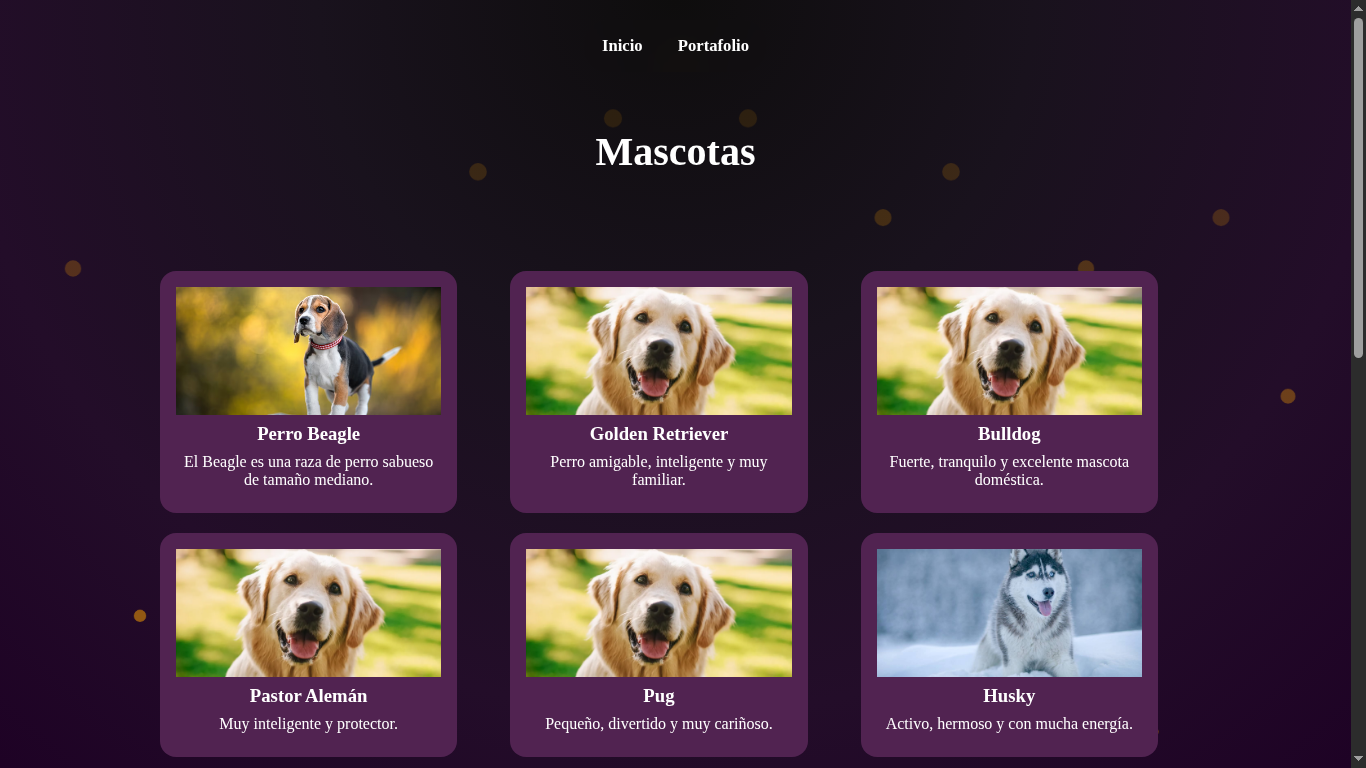
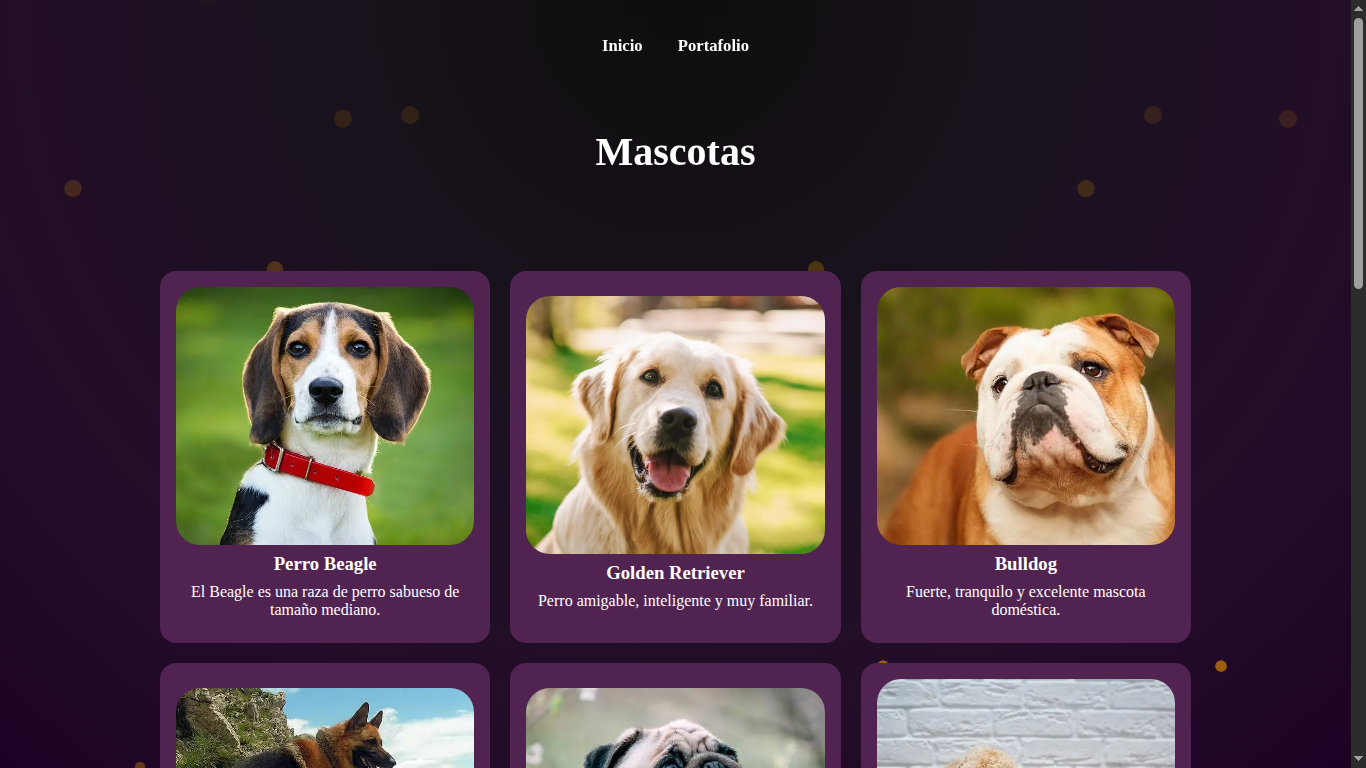
Improve img on grid and update README.md

diff --git a/src/css/pets.css b/src/css/pets.css
@@ -1,5 +1,7 @@
 @import url(./global_styles.css);
 
+/* Mobile First */
+
 /* Pets section */
 #pets {
     padding: 5rem 0 0 0;
@@ -52,7 +54,7 @@
 
 .pet-image {
     width: 100%;
-    height: 158px;
+    height: 128px;
     object-fit: cover;
     border-radius: 24px;
 }
@@ -86,6 +88,8 @@
 }
 
 /* Media queries */
+
+/* tablets screen size */
 @media (min-width: 768px) {
     #pets {
         padding: 10rem 0 0 0 0;
@@ -96,7 +100,7 @@
     }
 
     .pets-grid a {
-        max-width: 90%;
+        max-width: 100%;
     }
 
     .card-description {
@@ -104,6 +108,7 @@
     }
 }
 
+/* laptops screen size */
 @media (min-width: 1024px) {
     .main-title {
         text-align: center;
@@ -115,13 +120,10 @@
     }
 
     .gallery-description {
-        max-width: 700px;
+        max-width: 900px;
     }
 
     .pet-image {
-        width: 100%;
-        height: 298px;
-        object-fit: contain;
+        height: 258px;
     }
-
 }

diff --git a/src/css/index.css b/src/css/index.css
@@ -1,5 +1,7 @@
 @import url(./global_styles.css);
 
+/* Mobile First */
+
 /* About me section */
 #about-me {
     display: grid;
@@ -69,7 +71,7 @@
 .project-card img {
     width: 100%;
     height: 128px;
-    object-fit: cover;
+    object-fit: contain;
 }
 
 .project-card h3 {
@@ -152,6 +154,8 @@
 }
 
 /* Media queries */
+
+/* tablets screen size */
 @media (min-width: 768px) {
     .main-title {
         font-size: 3rem;
@@ -179,6 +183,7 @@
     }
 }
 
+/* laptops screen size */
 @media (min-width: 1024px) {
     #about-me {
         grid-template-columns: 2fr 1fr;

diff --git a/index.html b/index.html
@@ -8,8 +8,7 @@
     <meta name="author" content="Danilo Doria">
     <meta name="description" content="Portafolio de Danilo Andres Doria Diaz, dale un vistazo 
     a mis habilidades, expericencias y todo lo que tengo para ofrecer.">
-    <meta name="keywords" content="portafolio, diseño web, frontend">
-    <meta http-equiv="cache-control" content="no-cache">
+    <meta name="robots" content="index, follow">
     <link rel="icon" type="image/png" href="./public/icons/fav-icon.png">
     <link href="./src/css/index.css" rel="stylesheet">
 </head>

diff --git a/src/css/global_styles.css b/src/css/global_styles.css
@@ -1,3 +1,5 @@
+/* Mobile First */
+
 * {
     margin: 0;
     padding: 0;
@@ -190,6 +192,8 @@ span {
 }
 
 /* Media queries */
+
+/* tablets and laptops screen size */
 @media (min-width: 768px) {
     body {
         font-size: 1.3rem;

diff --git a/README.md b/README.md
@@ -42,41 +42,18 @@ The objective is to create a responsive website that includes:
 .
 ├── index.html
 ├── LICENSE
-├── public
-│   ├── icons
-│   │   ├── email-icon.svg
-│   │   ├── fav-icon.png
-│   │   ├── github-icon.svg
-│   │   └── linkedin-icon.svg
-│   └── images
-│       ├── beagle.webp
-│       ├── bulldog.webp
-│       ├── chihuahua.webp
-│       ├── dalmata.webp
-│       ├── DaniloDoria-Photo.jpg
-│       ├── doberman.webp
-│       ├── golden.webp
-│       ├── husky.jpg
-│       ├── pastor.webp
-│       ├── poodle.webp
-│       ├── preview-1.png
-│       ├── preview-2.png
-│       ├── project-1.png
-│       ├── project-2.png
-│       ├── project-3.png
-│       ├── project-4.png
-│       ├── project-5.png
-│       ├── project-6.png
-│       └── pug.webp
+├── public/
+│   ├── icons/
+│   └── images/
 ├── README.md
-└── src
-    ├── css
+└── src/
+    ├── css/
     │   ├── global_styles.css
     │   ├── index.css
     │   └── pets.css
-    ├── js
+    ├── js/
     │   └── script.js
-    └── views
+    └── views/
         └── pets.html
 ```
 
